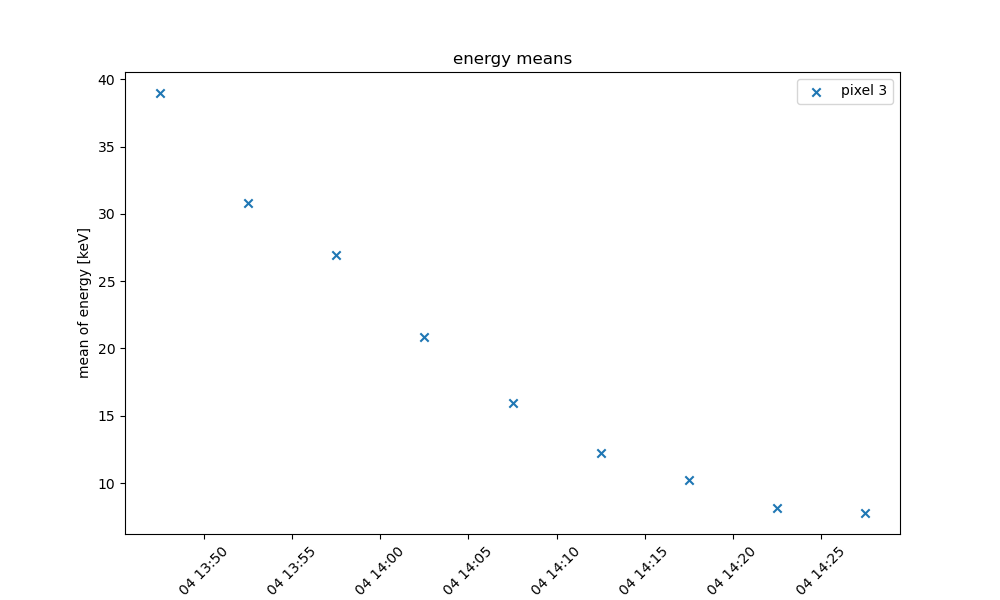
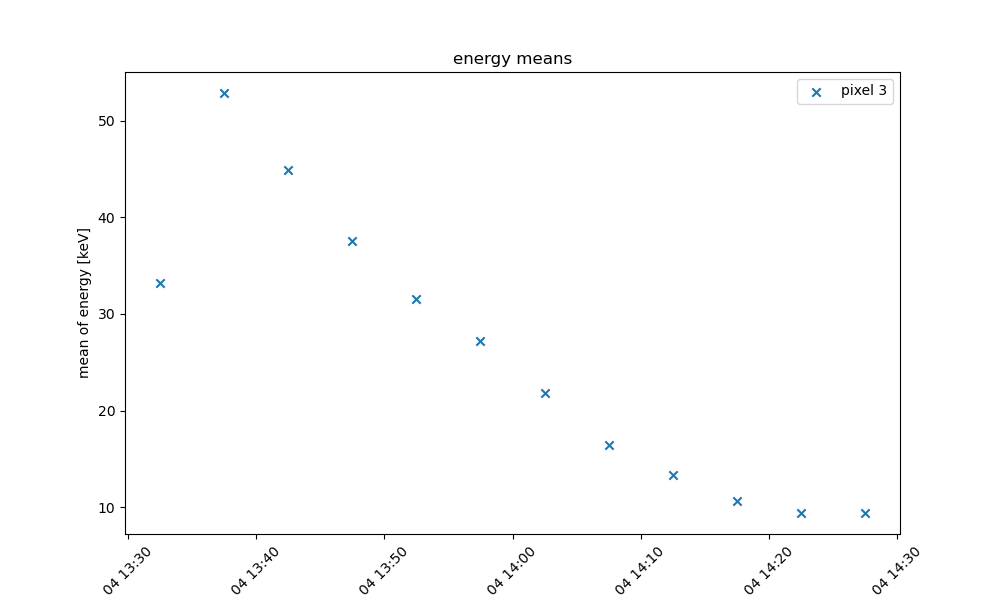
Implemwentierungen wohl abgeschlossen

diff --git a/STEP.py b/STEP.py
@@ -388,39 +388,58 @@ class STEP():
         pixel_means = [[] for i in range(16)]     # Liste mit Listen der Mittelwerte der einzelnen Pixel. Die erste Liste enthält die Zeitstempel (jeweils Mitte der Zeitfenster)
         
         if callable(grenzfunktion):
+            '''Bereite zunächst little_helper_dat vor und erzeuge dann eine Maske, die ja auf alle Pixel angewendet werden kann.
+            Anschließend wird set_zero die eine Maske und ein array mit allen Pixeln übergeben, um die entsprechenden Werte auf 
+            Null zu setzen.'''
             little_helper_dat = np.array(self.data_prep(ebins,res,head,period,norm,overflow,esquare)[0])
-            for i,pdat in enumerate(little_helper_dat):
-                # Transponieren scheint hier notwendig zu sein, damit Zeit und Energie den korrekten array-Dimensionen entsprechen...
-                ayuda_shape = (pdat.shape[1],pdat.shape[0])
-                mask = self.create_masks(grenzfunktion=grenzfunktion,shape=ayuda_shape)
-                if below == False:
-                    mask = ~mask  # Tilde invertiert (logical-not)
-                little_helper_dat[i] = self.set_zero(little_helper_dat[i].T,mask)
-            print(little_helper_dat[3][3])
-            print(mask[3])
-            print(len(little_helper_dat[3][3]))
-            print(little_helper_dat.shape)
+            # Transponieren scheint hier notwendig zu sein, damit Zeit und Energie den korrekten array-Dimensionen entsprechen...
+            # Nutze ersten Eintrag in little_helper_dat, shape sollte für alle Pixel gleich sein.
+            ayuda_shape = (little_helper_dat[0].shape[1],little_helper_dat[0].shape[0])
+            mask = self.create_masks(grenzfunktion=grenzfunktion,shape=ayuda_shape)
+            if below == False:
+                mask = ~mask  # Tilde invertiert (logical-not)
+            pldat = self.set_zero(little_helper_dat,mask.T)
+            
         elif type(box_list) == list:
             little_helper_dat = self.data_prep(ebins,res,head,period,norm,overflow,esquare)[0]
             pldat = self.data_boxes(little_helper_dat,box_list)
         else:
             pldat = self.data_prep(ebins,res,head,period,norm,overflow,esquare)[0]
 
+        # Mittelwerte der einzelnen Energie-Bins
+        mittelwerte_energie_bins = []
+        for k in range(len(ebins)-1):
+            mittelwerte_energie_bins.append(0.5*(ebins[k+1]+ebins[k]))
+        mittelwerte_energie_bins = np.array(mittelwerte_energie_bins)
+
         while (period[0] + dt.timedelta(minutes=(i+1)*window_width)) <= period[1]:
             pixel_means[0].append(period[0] + dt.timedelta(minutes=(i+0.5)*window_width))
             
-            # Berechnung der Mittelwerte:
+            # Alte Berechnung der Mittelwerte:
+
+            # for k in pixel_list:
+            #     pdat = pldat[k][i*window_width:(i+1)*window_width]
+            #     integral = np.sum(pdat,axis=0)
+            #     # calculating mean
+            #     mean = 0.0
+            #     for j in range(len(integral)):
+            #         # Für Bestimmung des Mittelwertes der Verteilung wird Mitte der Bins gewählt
+            #         mean += integral[j]*0.5*(ebins[j+1]+ebins[j])
+            #     mean = mean/np.sum(integral)
+            #     pixel_means[k].append(mean)
+            # i +=1
+
+
+            # Neue Berechnung der Mittelwerte 
+            
             for k in pixel_list:
                 pdat = pldat[k][i*window_width:(i+1)*window_width]
                 integral = np.sum(pdat,axis=0)
                 # calculating mean
-                mean = 0.0
-                for j in range(len(integral)):
-                    # Für Bestimmung des Mittelwertes der Verteilung wird Mitte der Bins gewählt
-                    mean += integral[j]*0.5*(ebins[j+1]+ebins[j])
-                mean = mean/np.sum(integral)
+                mean = np.sum(mittelwerte_energie_bins*integral)/np.sum(integral)
                 pixel_means[k].append(mean)
             i +=1
+            
         
         for i in range(len(pixel_means)):
             # Array erstellen
@@ -438,11 +457,18 @@ class STEP():
         pixel_means = [[] for i in range(16)]     # Liste mit Listen der Mittelwerte der einzelnen Pixel. Die erste Liste enthält die Zeitstempel (jeweils Mitte der Zeitfenster)
         
         if callable(grenzfunktion):
+            '''Bereite zunächst little_helper_dat vor und erzeuge dann eine Maske, die ja auf alle Pixel angewendet werden kann.
+            Anschließend wird set_zero die eine Maske und ein array mit allen Pixeln übergeben, um die entsprechenden Werte auf 
+            Null zu setzen.'''
             little_helper_dat = np.array(self.data_prep(ebins,res,head,period,norm,overflow,esquare)[0])
-            mask = self.create_masks(grenzfunktion=grenzfunktion,shape=little_helper_dat.shape)
+            # Transponieren scheint hier notwendig zu sein, damit Zeit und Energie den korrekten array-Dimensionen entsprechen...
+            # Nutze ersten Eintrag in little_helper_dat, shape sollte für alle Pixel gleich sein.
+            ayuda_shape = (little_helper_dat[0].shape[1],little_helper_dat[0].shape[0])
+            mask = self.create_masks(grenzfunktion=grenzfunktion,shape=ayuda_shape)
             if below == False:
                 mask = ~mask  # Tilde invertiert (logical-not)
-            pldat = self.set_zero(little_helper_dat,mask)
+            pldat = self.set_zero(little_helper_dat,mask.T)
+            
         elif type(box_list) == list:
             little_helper_dat = self.data_prep(ebins,res,head,period,norm,overflow,esquare)[0]
             pldat = self.data_boxes(little_helper_dat,box_list)

diff --git a/Runtime.py b/Runtime.py
@@ -57,8 +57,8 @@ class STEP_Runtime(STEP):
 
 
 
-# dat = STEP_Runtime(2021, 12, 4)
-dat = STEP_Runtime(2021, 12, 4, rpath='data/STEP/',rpath_mag='data/mag/')
+dat = STEP_Runtime(2021, 12, 4)
+# dat = STEP_Runtime(2021, 12, 4, rpath='data/STEP/',rpath_mag='data/mag/')
 
 # box_list = [[[15,35],[30,38]],[[20,45],[25,30]],[[26,80],[20,25]],[[30,120],[15,20]],[[40,155],[10,15]],[[50,170],[3,10]]]
 # period = (dt.datetime(2021,12,4,13,30),dt.datetime(2021,12,4,16,30))
@@ -79,8 +79,10 @@ dat.plot_ts(period=period, head=-1, save='runtime_test2/', norm='tmax',grenzfunk
 pixel_means = dat.calc_energy_means(ebins=ebins,head=-1, period=period, grenzfunktion=grenz)
 pixel_means2 = dat.calc_energy_means(ebins=ebins,head=-1, period=period, grenzfunktion=grenz, window_width=1)
 
-dat.plot_energy_means(pixel_means,'runtime_test2/energy_means_5_minutes_pixel3_2021_12_04_adjust.png',pixel_list=[3])
-dat.plot_energy_means(pixel_means2,'runtime_test2/energy_means_1_minute_pixel3_2021_12_04_adjust.png',pixel_list=[3])
+
+# dat.plot_energy_means(pixel_means,'runtime_test2/energy_means_5_minutes_pixel3_2021_12_04_adjust.png',pixel_list=[3])
+# dat.plot_energy_means(pixel_means2,'runtime_test2/energy_means_1_minute_pixel3_2021_12_04_adjust.png',pixel_list=[3])
+
 
 
 ### Berechnung mit Sliding-Window:
@@ -94,6 +96,7 @@ dat.plot_energy_means(pixel_means2,'runtime_test2/energy_means_1_minute_pixel3_2
 # Berechnung für alle Pixel:
 runtime_list_min = []
 injectiontime_list_min = []
+datetime_list_min = []
 for j in range(1,16):
     # Geschwindigkeit:
     # Korrektur, da Energie-Mittelwerte in keV angegeben sind.
@@ -129,6 +132,7 @@ for j in range(1,16):
 
     runtime_list_min.append(run_time2)
     injectiontime_list_min.append(injection_time2)
+    datetime_list_min.append(pixel_means2[0][mask2])
     
     print(f'Injektionszeit Pixel {j}:')
     print('fünf-minütlich: ',injection_time)
@@ -158,8 +162,15 @@ for j in range(1,16):
     plt.savefig(f'runtime_test2/test_runtime_sliding_window_pixel{j}_2021_12_04_adjust.png')
     plt.close()
 
-runtime_list_min = np.array(runtime_list_min)
-injectiontime_list_min = np.array(injectiontime_list_min)
+plt.close('all')
+
+# =============================================================================
+# print(runtime_list_min)
+# runtime_list_min = np.asarray(runtime_list_min)
+# injectiontime_list_min = np.asarray(injectiontime_list_min)
+# 
+# print(runtime_list_min)
+# =============================================================================
 
 
 ### Schaue mir an, ob Laufzeitverhältnis zu Verhältnis der Pitchwinkel passt... ###
@@ -168,25 +179,43 @@ injectiontime_list_min = np.array(injectiontime_list_min)
 i = 3
 j = 5
 
+dat.plot_energy_means(pixel_means,f'runtime_test2/energy_means_5_minutes_pixel_{i}_and_{j}_2021_12_04_adjust.png',pixel_list=[i,j])
+dat.plot_energy_means(pixel_means2,f'runtime_test2/energy_means_1_minute_pixel_{i}_and_{j}_2021_12_04_adjust.png',pixel_list=[i,j])
+plt.close('all')
+
 # Einschränkung der Pitchwinkel auf period über Maske
 pw_mask = (dat.mag.time >= period[0]) * (dat.mag.time < period[1])
 
-ratio_pitch = dat.mag.pitchangles[i][pw_mask]/dat.mag.pitchangles[j][pw_mask]
-ratio_runtime = runtime_list_min[j]/runtime_list_min[i]
 
-print(len(ratio_pitch),len(ratio_runtime))
+
+ratio_pitch = dat.mag.pitchangles[i][pw_mask]/dat.mag.pitchangles[j][pw_mask]
+
+# Bestimme die Laufzeit nur, wenn für das entsprchende datetime-Objekt für beide Pixel ein Wert voliegt.
+# Sehr unschöne brute-force-Methode... Bin noch nicht glücklich...
+ratio_runtime = []
+time_ratio_runtime = []
+for count_i, datetime_object_i in enumerate(datetime_list_min[i]):
+    for count_j, datetime_object_j in enumerate(datetime_list_min[j]):
+        if (datetime_object_i == datetime_object_j):
+            ratio_runtime.append(runtime_list_min[j][count_j]/runtime_list_min[i][count_j])
+            time_ratio_runtime.append(datetime_object_i)
+            break
+            
+
+
 
 ts2_datetime = np.array([dt.datetime.fromtimestamp(k) for k in (np.rint(ts2)).astype(int)])
 ts_mag = dat.mag.time[pw_mask]
 
-# print(ts2_datetime)
-# print(ts_mag)
+
 
 fig, ax = plt.subplots(figsize=(10,6))
 
-plt.plot(ts2_datetime,ratio_runtime,label='ratio runtime')
+
+plt.plot(time_ratio_runtime,ratio_runtime,label='ratio runtime')
 plt.plot(ts_mag,ratio_pitch,label='ratio pitch angle')
 plt.xlabel('time')
 plt.ylabel('ratio')
 plt.legend()
 plt.savefig(f'runtime_test2/comparison_ratios_pixel_{i}_to_{j}.png')
+plt.close('all')

diff --git a/workbench.py b/workbench.py
@@ -108,8 +108,7 @@ def g(t):
 
 ebins = np.array([0.98 ,2.144,2.336,2.544,2.784,3.04,3.312])
 data = np.array([[200,200,50,50,50,300],[200,50,50,50,300,50],[200,50,50,300,50,50],[50,50,300,50,50,50],[50,50,300,50,50,50],[50,50,300,50,50,50],[50,300,50,50,50,50],[50,300,50,50,50,50],[50,300,50,50,50,50],[300,50,50,50,50,50],[300,50,50,50,50,50],[300,50,50,50,50,50]]).T
-print(data.shape)
-print(data)
+
 
 # Wie genau funktioniert die  Grenzfunktion???
 
@@ -128,11 +127,9 @@ def grenz(i):
     return -i**0.5 + 2
 
 mask = create_masks(grenz,data.shape)
-print(mask)
-print(~mask)
+
 data[mask] = 0
-print(data)
-print(data.shape)
+
 
 
 def func():
@@ -142,7 +139,7 @@ print(type(func)==func)
 
 
 tmp = plt.pcolormesh(data)
-plt.colorbar(tmp)
+# plt.colorbar(tmp)
 # plt.yscale('log')
 # plt.show()
 
@@ -150,7 +147,14 @@ plt.colorbar(tmp)
 # b = 1.*a
 # b[~m] = 0 
 
-# Energies = array([1,3,6,...,100])
-# Earr = zeros(Datenarry.shape)
-# Earr[:] = Energies
-# MittlereEnergien = (Datenarray * Earr).sum(axis = 1)/Datenarray.sum(axis = 1)
+Energies = np.array([1,3,6,10])
+Datenarray = np.array([100,200,300,100])
+print(Datenarray)
+Earr = np.zeros(Datenarray.shape)
+print(Earr)
+print(Earr[:])
+Earr[:] = Energies
+print(Earr)
+print(Earr[:])
+MittlereEnergien = (Datenarray * Earr).sum(axis = 1)/Datenarray.sum(axis = 1)
+print(MittlereEnergien)
